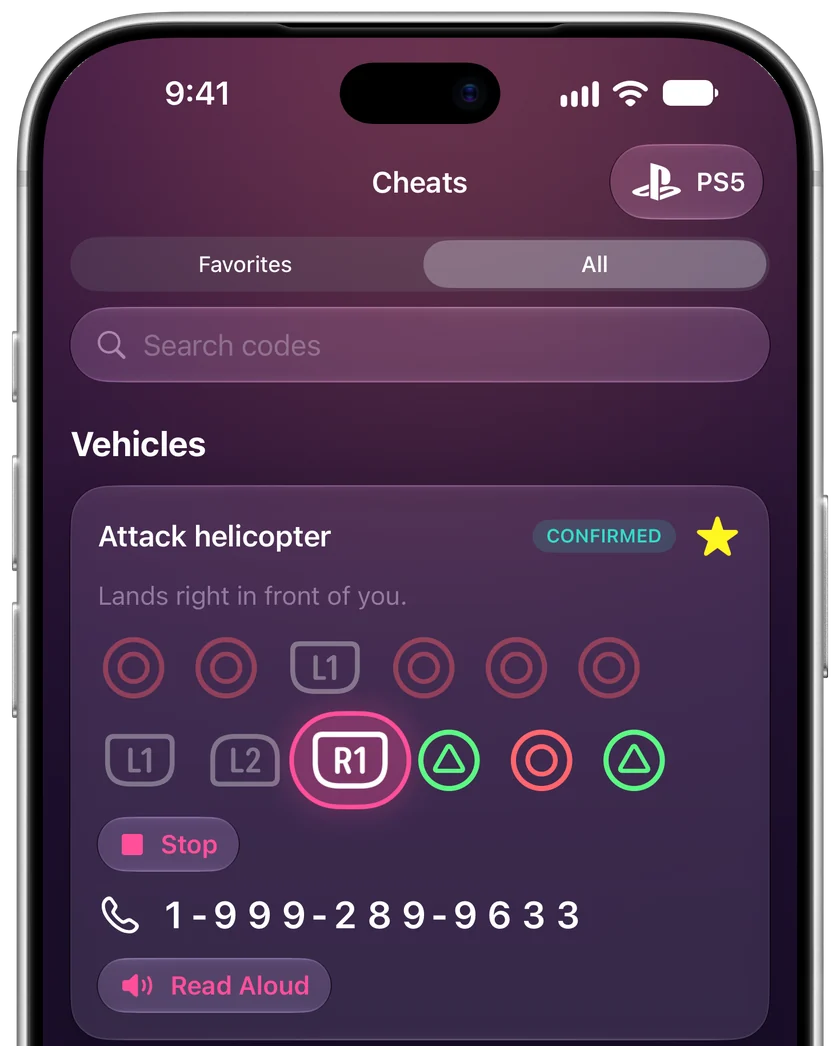
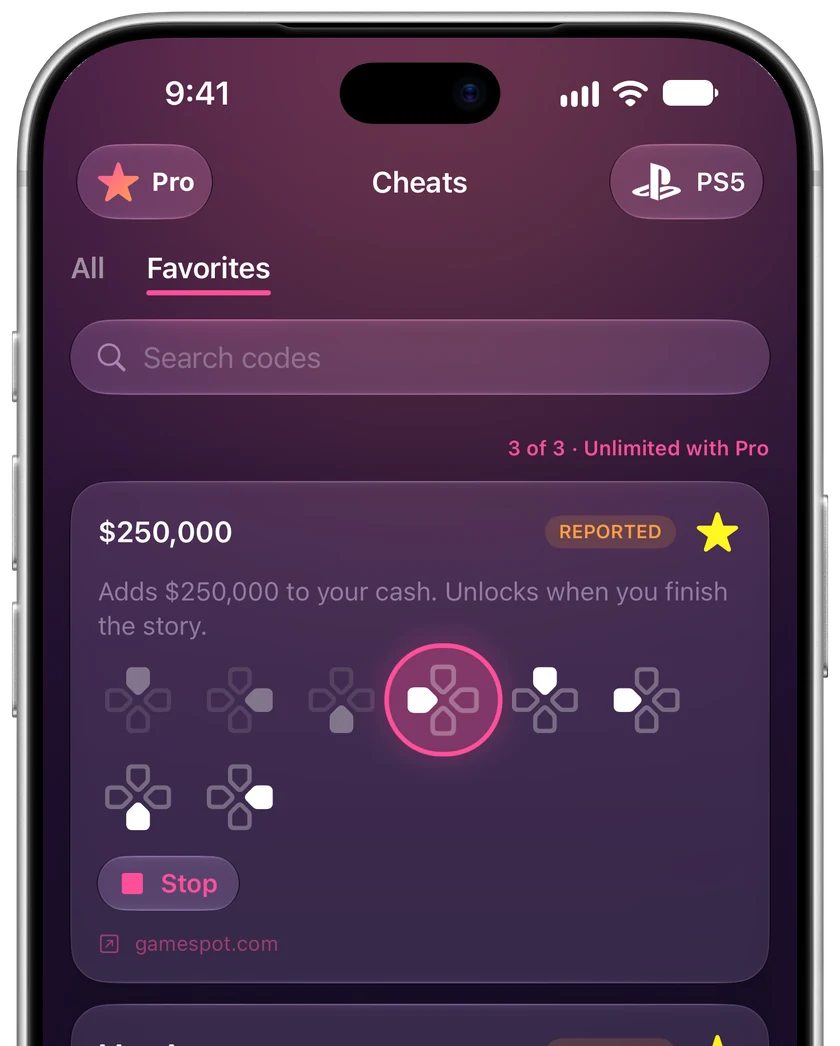
Landing for 1.3: the real codes and Trophies
The hero now plays $250,000, the first real GTA VI code, on the D-pad
and says it unlocks with the story; the made-up Invincibility and its
phone number are gone, and so are the other phone numbers. The codes
panel and a new question explain how to enter a cheat. Siri's examples
name real codes. A Trophies section and question cover the new tab and
say Backseat doesn't read your console account, and Pro now lists the
trophy tips. The phones and the link preview are taken again from the
1.3 build with the real codes. The unlock-times link leaves the header
now that the game is out; the page itself stays.

Changed region(s): [[0.0619, 0.2141, 0.9286, 1.0], [0.0929, 0.1224, 0.2786, 0.2141]]

diff --git a/index.html b/index.html
@@ -3,8 +3,8 @@
 <head>
 <meta charset="utf-8">
 <meta name="viewport" content="width=device-width, initial-scale=1, viewport-fit=cover">
-<title>Backseat: cheat codes, news and guides for GTA VI</title>
-<meta name="description" content="Backseat shows GTA VI cheat codes with the buttons for your PS5 or Xbox and reads them aloud. Ask Siri for a code or keep one in a widget. A free, unofficial fan app for iPhone.">
+<title>Backseat: cheat codes, trophies and news for GTA VI</title>
+<meta name="description" content="Backseat shows GTA VI cheat codes with the buttons for your PS5 or Xbox and reads them aloud, and tracks your trophies with tips for the hard ones. A free, unofficial fan app for iPhone.">
 <meta name="theme-color" content="#0F0A1C">
 <meta name="apple-itunes-app" content="app-id=6830724358">
 <link rel="icon" type="image/png" href="favicon.png">
@@ -12,10 +12,10 @@
 <link rel="canonical" href="https://getbackseat.app/">
 <meta property="og:type" content="website">
 <meta property="og:site_name" content="Backseat">
-<meta property="og:title" content="Backseat: GTA VI cheat codes, guides and more">
-<meta property="og:description" content="Backseat shows GTA VI cheat codes with the buttons for your PS5 or Xbox and reads them aloud. Ask Siri for a code or keep one in a widget. A free, unofficial fan app for iPhone.">
+<meta property="og:title" content="Backseat: GTA VI cheat codes, trophies and more">
+<meta property="og:description" content="Backseat shows GTA VI cheat codes with the buttons for your PS5 or Xbox and reads them aloud, and tracks your trophies with tips for the hard ones. A free, unofficial fan app for iPhone.">
 <meta property="og:url" content="https://getbackseat.app/">
-<meta property="og:image" content="https://getbackseat.app/assets/landing/og.png?v=5">
+<meta property="og:image" content="https://getbackseat.app/assets/landing/og.png?v=6">
 <meta property="og:image:width" content="1200">
 <meta property="og:image:height" content="630">
 <meta name="twitter:card" content="summary_large_image">
@@ -26,11 +26,11 @@
   "@type": "MobileApplication",
   "name": "Backseat",
   "url": "https://getbackseat.app/",
-  "description": "Backseat shows GTA VI cheat codes with the buttons for your PS5 or Xbox and reads them aloud. Ask Siri for a code or keep one in a widget. A free, unofficial fan app for iPhone.",
+  "description": "Backseat shows GTA VI cheat codes with the buttons for your PS5 or Xbox and reads them aloud, and tracks your trophies with tips for the hard ones. A free, unofficial fan app for iPhone.",
   "operatingSystem": "iOS 26.0 or later",
   "applicationCategory": "EntertainmentApplication",
   "installUrl": "https://apps.apple.com/app/id6830724358",
-  "featureList": "Cheat codes with the buttons for PS5 and Xbox Series X|S, Read Aloud, Siri and Shortcuts, Spotlight, Home Screen and Lock Screen widgets, news, guides",
+  "featureList": "Cheat codes with the buttons for PS5 and Xbox Series X|S, Read Aloud, Siri and Shortcuts, Spotlight, Home Screen and Lock Screen widgets, trophy and achievement tracker, news, guides",
   "offers": { "@type": "Offer", "price": "0", "priceCurrency": "USD" }
 }
 </script>
@@ -121,7 +121,7 @@
   .hero-grid { display: grid; grid-template-columns: minmax(0, 1.2fr) minmax(0, .8fr); gap: 48px; align-items: end; }
   .hero-copy { padding-block: 72px 80px; }
   .hero h1 { font-size: clamp(54px, 7vw, 92px); margin-top: 18px; }
-  /* Until launch night: the link to the unlock times, above the eyebrow. */
+  /* A short line above the eyebrow: what is new. */
   .notice { display: inline-flex; align-items: center; gap: 10px; max-width: 100%; margin-bottom: 22px; padding: 5px 14px 5px 5px; border-radius: 999px; font-size: 15px; font-weight: 600; text-decoration: none; background: rgba(255, 255, 255, .07); border: 1px solid var(--line); }
   .notice:hover { background: rgba(255, 255, 255, .12); }
   .notice b { flex: none; padding: 3px 10px; border-radius: 999px; font-size: 12px; font-weight: 700; letter-spacing: .08em; text-transform: uppercase; background: var(--violet); }
@@ -263,6 +263,8 @@
       </g>
       <path d="M3.2 10.4v7.2h6.4l3.6-3.6-3.6-3.6Z" fill="currentColor" stroke="currentColor" stroke-width="1.5" stroke-linejoin="round"/>
     </symbol>
+    <symbol id="k-dpad-up" viewBox="0 0 28 28"><use href="#k-dpad-right" transform="rotate(-90 14 14)"/></symbol>
+    <symbol id="k-dpad-down" viewBox="0 0 28 28"><use href="#k-dpad-right" transform="rotate(90 14 14)"/></symbol>
     <symbol id="k-speaker" viewBox="0 0 24 24"><path d="M3.5 9.2h3.2L11.5 5v14l-4.8-4.2H3.5Z" fill="currentColor"/><path d="M15 9.2a4 4 0 0 1 0 5.6M17.8 6.6a7.6 7.6 0 0 1 0 10.8" fill="none" stroke="currentColor" stroke-width="1.8" stroke-linecap="round"/></symbol>
     <symbol id="k-stop" viewBox="0 0 24 24"><rect x="6" y="6" width="12" height="12" rx="2.5" fill="currentColor"/></symbol>
     <symbol id="k-phone" viewBox="0 0 24 24"><path d="M6.6 3.5 9 3.2l1.6 4.1-2 1.5a12 12 0 0 0 6.6 6.6l1.5-2 4.1 1.6-.3 2.4a2 2 0 0 1-2.1 1.7A16.6 16.6 0 0 1 4.9 5.6a2 2 0 0 1 1.7-2.1Z" fill="none" stroke="currentColor" stroke-width="1.6" stroke-linejoin="round"/></symbol>
@@ -273,11 +275,11 @@
   <div class="wrap">
     <a class="brand" href="./"><img src="assets/icon-256.png" alt="" width="32" height="32">Backseat</a>
     <nav aria-label="Sections">
-      <a href="unlock-times/">Unlock times</a>
       <a href="#codes">Codes</a>
       <a href="#read-aloud">Read Aloud</a>
       <a href="#siri">Siri</a>
       <a href="#widgets">Widgets</a>
+      <a href="#trophies">Trophies</a>
       <a href="#news">News</a>
       <a href="#questions">Questions</a>
       <a class="get" href="https://apps.apple.com/app/id6830724358">Get the app</a>
@@ -289,33 +291,31 @@
   <section class="hero">
     <div class="wrap hero-grid">
       <div class="hero-copy">
-        <a class="notice" href="unlock-times/"><b>Nov 19</b>When GTA VI unlocks for you <span aria-hidden="true">→</span></a>
+        <a class="notice" href="#trophies"><b>New</b>Trophies, with tips for the hard ones <span aria-hidden="true">→</span></a>
         <p class="eyebrow">Unofficial companion for GTA VI</p>
         <h1 class="display">Cheat codes, button by button</h1>
 
-        <figure class="combo" aria-label="Invincibility on PlayStation 5: Right, Cross, Right, Left, Right, R1, Right, Left, Cross, Triangle. Or dial 1-999-724-654-5537 on the in-game phone.">
+        <figure class="combo" aria-label="$250,000 on PlayStation 5: Up, Right, Down, Left, Up, Left, Down, Right. Unlocks when you finish the story.">
           <figcaption class="combo-head" aria-hidden="true">
-            <span class="combo-name">Invincibility</span>
-            <span class="chip chip-confirmed">Confirmed</span>
+            <span class="combo-name">$250,000</span>
+            <span class="chip chip-reported">Reported</span>
             <span class="combo-console">PlayStation 5</span>
           </figcaption>
           <ol class="keys" aria-hidden="true">
+            <li class="key"><svg><use href="#k-dpad-up"/></svg></li>
             <li class="key"><svg><use href="#k-dpad-right"/></svg></li>
-            <li class="key cross"><svg><use href="#k-cross"/></svg></li>
-            <li class="key"><svg><use href="#k-dpad-right"/></svg></li>
+            <li class="key"><svg><use href="#k-dpad-down"/></svg></li>
             <li class="key"><svg><use href="#k-dpad-left"/></svg></li>
-            <li class="key"><svg><use href="#k-dpad-right"/></svg></li>
-            <li class="key shoulder"><span>R1</span></li>
-            <li class="key"><svg><use href="#k-dpad-right"/></svg></li>
+            <li class="key"><svg><use href="#k-dpad-up"/></svg></li>
             <li class="key"><svg><use href="#k-dpad-left"/></svg></li>
-            <li class="key cross"><svg><use href="#k-cross"/></svg></li>
-            <li class="key triangle"><svg><use href="#k-triangle"/></svg></li>
+            <li class="key"><svg><use href="#k-dpad-down"/></svg></li>
+            <li class="key"><svg><use href="#k-dpad-right"/></svg></li>
           </ol>
           <p class="combo-read" aria-hidden="true"><svg class="i-read"><use href="#k-speaker"/></svg><svg class="i-stop"><use href="#k-stop"/></svg><span>Read Aloud</span></p>
-          <p class="combo-dial" aria-hidden="true"><svg><use href="#k-phone"/></svg>or dial <b>1-999-724-654-5537</b></p>
+          <p class="combo-dial" aria-hidden="true">Unlocks when you finish the story</p>
         </figure>
 
-        <p class="lede">Backseat shows each cheat code as the buttons for your PlayStation&nbsp;5 or Xbox Series&nbsp;X|S and reads it out press by press. Ask Siri for a code without putting down the controller, or keep your favorites in a widget. You also get the day’s news and short guides, each with a link to its source.</p>
+        <p class="lede">Backseat shows each cheat code as the buttons for your PlayStation&nbsp;5 or Xbox Series&nbsp;X|S and reads it out press by press. Ask Siri for a code without putting down the controller, keep your favorites in a widget, and tick off your trophies as they pop. News and short guides come with a link to their source.</p>
         <div class="cta">
           <a class="store" href="https://apps.apple.com/app/id6830724358"><img src="assets/app-store-badge.svg" alt="Download on the App Store" width="168" height="56"></a>
           <p class="cta-note">Free for iPhone. Install it before the next mission.</p>
@@ -323,7 +323,7 @@
       </div>
       <div class="hero-phone">
         <img src="assets/landing/phone-codes-player.webp" width="840" height="1120" fetchpriority="high"
-          alt="The Cheats screen in Backseat with PlayStation 5 picked: Favorites and All, a search field, a card with the Siri phrase “Read the Invincibility code in Backseat”, and Invincibility with its buttons and a Read Aloud button.">
+          alt="The Cheats screen in Backseat with PlayStation 5 picked: Favorites, a search field, a card with the Siri phrase “Read the $250,000 code in Backseat”, and $250,000 with its D-pad presses and a Read Aloud button.">
       </div>
     </div>
   </section>
@@ -333,15 +333,16 @@
       <div class="panel-copy">
         <p class="eyebrow">Cheat codes</p>
         <h2 class="display" id="codes-title">Your console, your buttons</h2>
-        <p>Pick PlayStation&nbsp;5 or Xbox Series&nbsp;X|S once, and the app shows each code as the buttons on your controller, in the order you press them. If the game also takes a code on the in-game phone, you get the number to dial.</p>
+        <p>Pick PlayStation&nbsp;5 or Xbox Series&nbsp;X|S once, and the app shows each code as the presses on your controller, in order. Each code also says what it does and what unlocks it. In GTA&nbsp;VI you can use cheats once you finish the story, and many need a challenge too.</p>
         <dl class="points">
+          <div><dt>How to enter one</dt><dd>Press Up on the D-pad to take out the phone, hold L1 and press R1 (LB and RB on Xbox), then enter the code. The app keeps these steps above the list.</dd></div>
           <div><dt>Favorites first</dt><dd>Star the codes you use to keep them under Favorites. Type a name in the search field to find any other code.</dd></div>
           <div><dt>No app update for new codes</dt><dd>We add new codes on our server, and you see them without updating the app. Turn on notifications and we’ll tell you when they arrive.</dd></div>
         </dl>
       </div>
       <div class="panel-phone">
         <img src="assets/landing/phone-codes-favorites.webp" width="840" height="1029" loading="lazy"
-          alt="Favorites in Backseat: Invincibility and Attack helicopter, starred, with PlayStation 5 buttons, phone numbers and Read Aloud buttons.">
+          alt="All codes in Backseat: the note on when cheats work and how to enter them, and $250,000, marked Reported, with its PlayStation 5 presses.">
       </div>
     </section>
 
@@ -349,7 +350,7 @@
       <div class="panel-copy">
         <p class="eyebrow">Read Aloud</p>
         <h2 class="display" id="read-title">Keep your eyes on the TV</h2>
-        <p>Tap Read Aloud and look back at the game. After a short pause, a voice in your language calls out each press while a ring moves across the buttons, and you feel a tap for each one. You hear phone numbers digit by digit.</p>
+        <p>Tap Read Aloud and look back at the game. After a short pause, a voice in your language calls out each press while a ring moves across the buttons, and you feel a tap for each one.</p>
         <dl class="points">
           <div><dt>Three speeds</dt><dd>On Slow you have time to find each button. Pick the speed in Settings.</dd></div>
           <div><dt>Works on silent</dt><dd>The voice plays when your iPhone is on silent, and the screen stays on until the code ends.</dd></div>
@@ -357,7 +358,7 @@
       </div>
       <div class="panel-phone">
         <img src="assets/landing/phone-codes-reading.webp" width="840" height="1046" loading="lazy"
-          alt="Read Aloud in Backseat: a pink ring sits on R1 in the Attack helicopter code, the presses it already called have faded, and the button reads Stop.">
+          alt="Read Aloud in Backseat: a pink ring sits on the fourth press of $250,000, the presses it already called have faded, and the button reads Stop.">
       </div>
     </section>
 
@@ -365,15 +366,15 @@
       <div class="panel-copy">
         <p class="eyebrow">Siri and Shortcuts</p>
         <h2 class="display" id="siri-title">Ask Siri, keep the controller</h2>
-        <p>Say “Read the Invincibility code in Backseat” while you hold the controller, and the app opens the code and reads it out. Ask “What’s the Parachute code in Backseat” and Siri tells you the buttons. Say “Show cheat codes in Backseat” to open the list.</p>
+        <p>Say “Read the $250,000 code in Backseat” while you hold the controller, and the app opens the code and reads it out. Ask “What’s the Max Ammo code in Backseat” and Siri tells you the buttons. Say “Show cheat codes in Backseat” to open the list.</p>
         <dl class="points">
-          <div><dt>Codes by name</dt><dd>Each code in the app is a Siri and Shortcuts action. Siri picks up new codes the next time you open the app.</dd></div>
+          <div><dt>Codes by name</dt><dd>Siri and Shortcuts know every code in the app by name, and pick up new ones the next time you open it.</dd></div>
           <div><dt>Spotlight too</dt><dd>Type a code’s name in Spotlight to open it in Backseat.</dd></div>
         </dl>
       </div>
       <div class="panel-phone">
         <img src="assets/landing/phone-siri-shortcuts.webp" width="840" height="937" loading="lazy"
-          alt="Backseat in the Shortcuts app: Cheat Codes, Get Cheat Code with an action for each code, and Read Code Aloud.">
+          alt="Backseat in the Shortcuts app: Get Cheat Code, Read Code Aloud and Cheat Codes.">
       </div>
     </section>
 
@@ -383,16 +384,32 @@
         <h2 class="display" id="widgets-title">Codes on your Home Screen</h2>
         <p>The Cheat code widget shows your favorites with the buttons for your console, or one code you pick. If you haven’t starred any, it shows a code of the day. The Countdown widget counts down to the next date we know of.</p>
         <dl class="points">
-          <div><dt>Lock Screen with Backseat Pro</dt><dd>Put a code under the clock, so it’s there when you pick up your iPhone. Pro is a one-time purchase and lets you star more than three codes.</dd></div>
+          <div><dt>Lock Screen with Backseat Pro</dt><dd>Put a code under the clock, so it’s there when you pick up your iPhone. Pro is a one-time purchase. With it you can star more than three codes and read the trophy tips.</dd></div>
         </dl>
       </div>
       <div class="panel-phone">
         <img src="assets/landing/phone-widgets.webp" width="840" height="937" loading="lazy"
-          alt="The large Cheat code widget on the Home Screen: Invincibility, Attack helicopter and Sports car with Xbox Series X|S buttons.">
+          alt="Backseat widgets on the Home Screen: a small and a medium Cheat code widget with $250,000 and its Xbox Series X|S presses.">
       </div>
     </section>
 
-    <section class="panel" id="news" aria-labelledby="news-title">
+    <section class="panel" id="trophies" aria-labelledby="trophies-title">
+      <div class="panel-copy">
+        <p class="eyebrow">Trophies · new in 1.3</p>
+        <h2 class="display" id="trophies-title">Every trophy, ticked off</h2>
+        <p>All 55 trophies and achievements in one list, with the grade on PS5 or the Gamerscore on Xbox. Tick one off when it pops and watch the count climb. Story trophies name missions, so Backseat covers them until you tap one.</p>
+        <dl class="points">
+          <div><dt>Tips with Backseat Pro</dt><dd>How to get the long ones, from 250 stunts to 100% completion, in a few lines with a link to the guide.</dd></div>
+          <div><dt>Cheats cost trophies</dt><dd>After a cheat you can’t earn trophies for the rest of the session, and the Cheats and Trophies tabs both remind you.</dd></div>
+        </dl>
+      </div>
+      <div class="panel-phone">
+        <img src="assets/landing/phone-trophies.webp" width="840" height="1300" loading="lazy"
+          alt="Trophies in Backseat on PlayStation 5: 1 of 55 earned, the note about hidden trophies, and Completion with Vice Got a Price!, A Long Road ticked off and One Last Thing, each with a locked tip.">
+      </div>
+    </section>
+
+    <section class="panel flip" id="news" aria-labelledby="news-title">
       <div class="panel-copy">
         <p class="eyebrow">News</p>
         <h2 class="display" id="news-title">The day’s news in a few lines</h2>
@@ -405,11 +422,11 @@
       </div>
       <div class="panel-phone">
         <img src="assets/landing/phone-intel-news.webp" width="840" height="905" loading="lazy"
-          alt="News in Backseat: First patch is out, marked Reported, and Remote Play on both consoles, marked Confirmed, each with its source.">
+          alt="News in Backseat: 61 cheats, after the story, marked Reported, and 99 on Metacritic, marked Confirmed, each with its source.">
       </div>
     </section>
 
-    <section class="panel flip" id="guides" aria-labelledby="guides-title">
+    <section class="panel" id="guides" aria-labelledby="guides-title">
       <div class="panel-copy">
         <p class="eyebrow">Guides</p>
         <h2 class="display" id="guides-title">Tips that save you a reload</h2>
@@ -430,16 +447,20 @@
         <p>No. Backseat is an unofficial fan app from an independent developer. It isn’t affiliated with, endorsed or sponsored by Rockstar Games or Take-Two Interactive.</p>
       </details>
       <details>
-        <summary>What are the numbers under some codes?</summary>
-        <p>Some cheats also work through your character’s phone in the game. Open the phone, type the number on its keypad and call. The cheat turns on the same way as with the buttons. If a code works both ways, the app shows both.</p>
+        <summary>How do I enter a cheat?</summary>
+        <p>Finish the story first: cheats stay locked until then, and many also need a challenge from Progress › Cheats. Then press Up on the D-pad to take out the phone, hold L1 and press R1 (LB and RB on Xbox), and enter the code on the D-pad. After a cheat you can’t save or earn trophies for the rest of the session, so save before you start.</p>
       </details>
       <details>
         <summary>Can Siri read a code to me?</summary>
-        <p>Yes. Say “Read the Invincibility code in Backseat”, or name another code, and Backseat opens it and reads out the presses. Ask “What’s the Invincibility code in Backseat” and Siri tells you the buttons. Codes we add later work too, once you open the app.</p>
+        <p>Yes. Say “Read the $250,000 code in Backseat”, or name another code, and Backseat opens it and reads out the presses. Ask “What’s the $250,000 code in Backseat” and Siri tells you the buttons. Codes we add later work too, once you open the app.</p>
       </details>
       <details>
         <summary>Do I need to update the app to get new codes?</summary>
         <p>No. The app loads codes, news and guides from our server when you open it, and Siri, Spotlight and the widgets get the new codes too. Pull down on any screen to check now.</p>
+      </details>
+      <details>
+        <summary>Does it track my trophies?</summary>
+        <p>From version 1.3, the Trophies tab lists all 55 trophies and achievements, and you tick them off as you earn them. Backseat doesn’t sign in to your PlayStation or Xbox account, so it can’t see which ones you have.</p>
       </details>
       <details>
         <summary>Which consoles does it cover?</summary>
@@ -451,7 +472,7 @@
       </details>
       <details>
         <summary>What does it cost?</summary>
-        <p>Backseat is free to download on the App Store. Backseat Pro is a one-time purchase with no subscription. It puts codes on your Lock Screen and lets you star more than three.</p>
+        <p>Backseat is free to download on the App Store. Backseat Pro is a one-time purchase with no subscription. It puts codes on your Lock Screen, lets you star more than three and opens the trophy tips.</p>
       </details>
     </div>
   </section>

diff --git a/README.md b/README.md
@@ -4,9 +4,9 @@ Privacy policy, terms of use and support page for Backseat, an unofficial fan ap
 
 - `privacy/` and `terms/`: the app's Settings and its App Store listing link to these two addresses.
 - `support/`: the contact address; the listing's Support URL points here.
-- `index.html`: the landing page, written for after the game's release: cheat codes, news, guides, questions. `404.html`: any other address.
+- `index.html`: the landing page: cheat codes, Read Aloud, Siri, widgets, trophies (from 1.3), news, guides, questions. `404.html`: any other address.
 - `unlock-times/`: when GTA VI unlocks on PS5 and Xbox, in the visitor's own time zone, with the US and Canada table. The moments in its script follow `Shared/launch.json` in the app's repository; change both together. `assets/unlock-times/og.png` is its link preview, written by `scripts/social-unlock-times.py` there.
-- `assets/landing/`: the phones on the landing (simulator captures in Apple's iPhone 18 Pro Max bezel, top part only) and `og.png`, the link preview. Cheats with the Siri card, Favorites, Read Aloud on a press, Backseat's page in Shortcuts and the large Cheat code widget come from version 1.2; News and Guides from 1.1. The code screens and the widget show GTA V codes on PS5 and Xbox as stand-ins; take them again once the app has the real codes.
+- `assets/landing/`: the phones on the landing (simulator captures in Apple's iPhone 18 Pro Max bezel, 840 px wide, top part only) and `og.png`, the link preview. Since 18 November 2026 they show the real GTA VI codes from version 1.3: Favorites with the Siri card and All with the note on entering cheats on PS5, Read Aloud on a press, Backseat's page in Shortcuts, the small and medium Cheat code widgets on Xbox, Trophies and News. Guides comes from 1.1.
 - `assets/fonts/`: Anton, the icon's typeface, cut to Latin, under the SIL Open Font License (`OFL-Anton.txt`).
 
 Backseat is not affiliated with, endorsed or sponsored by Rockstar Games or Take-Two Interactive.
